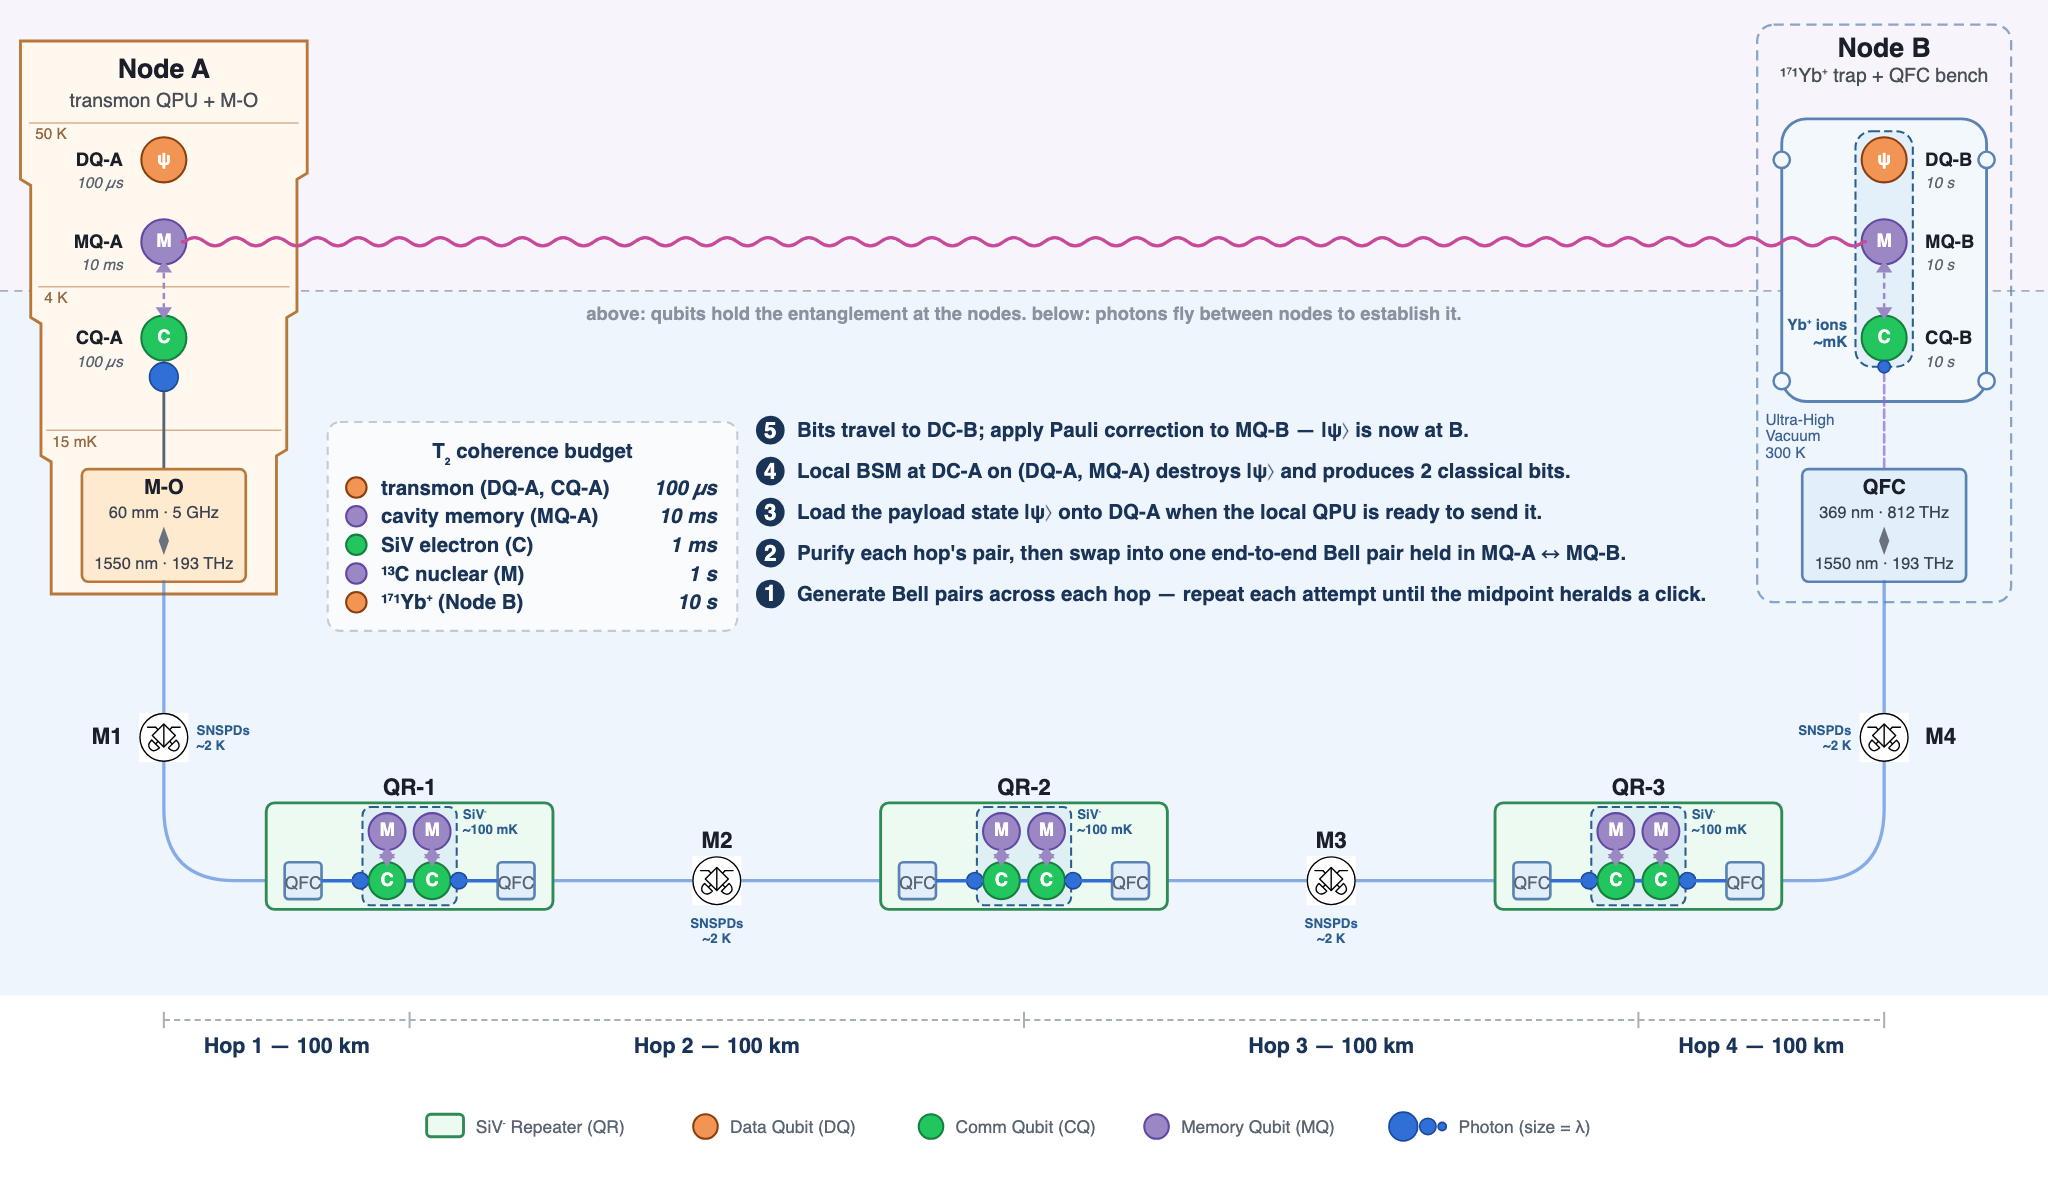
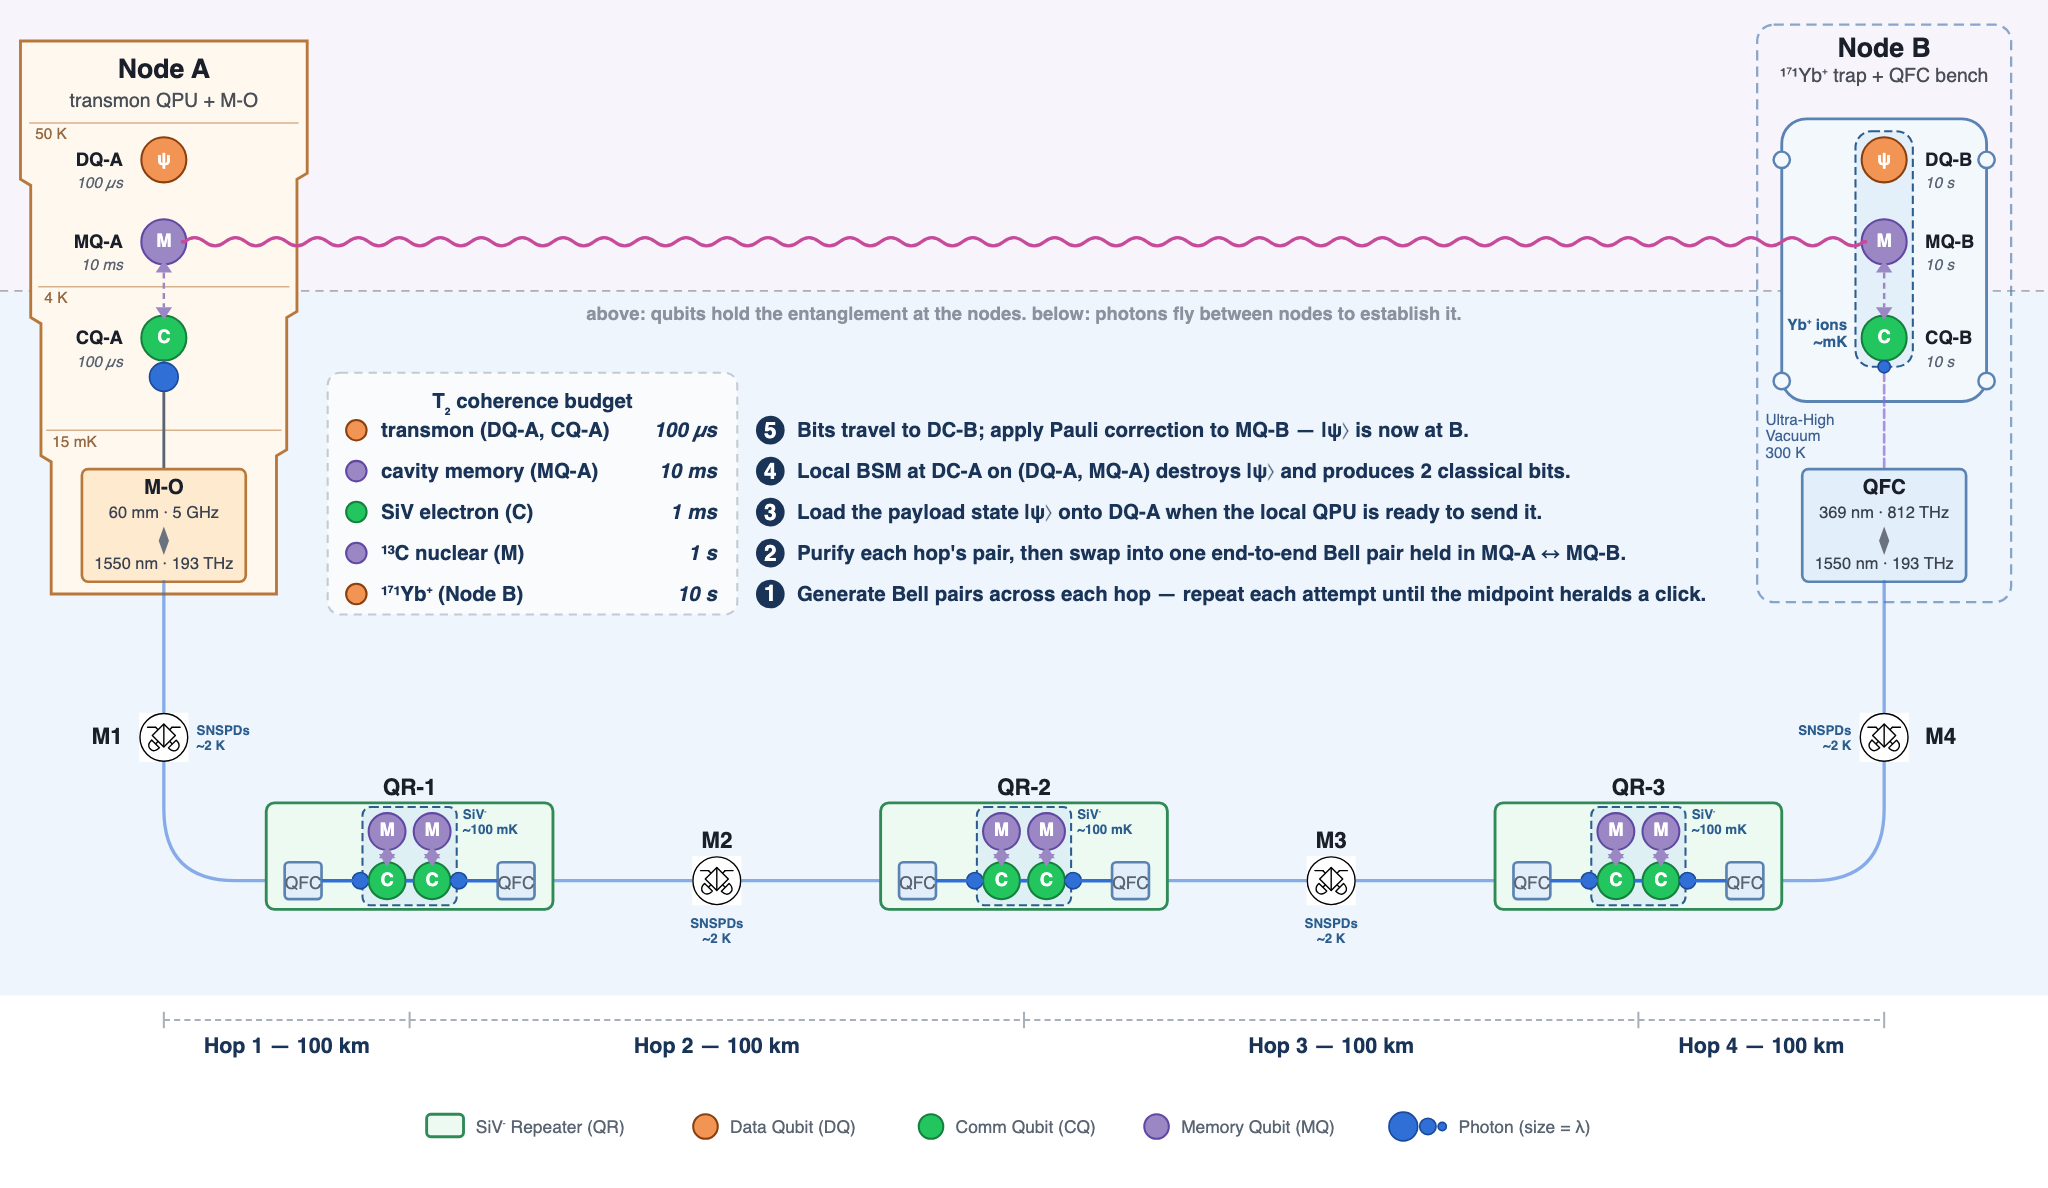
4hop-topology: lock T₂ panel row stride to step block so rows align
Panel rows used a 14 px stride while the step block used 20 px,
which left the panel sliding visually below the steps. Match the
strides and reposition the panel so each row lands at the same y
as the corresponding step (row 1 = step 5 at y=210, row 5 = step 1
at y=290). The panel reads as a paired sidebar to the steps.

- py 206 → 182, ph 102 → 118 (taller to accommodate the wider 20 px
  row stride for 5 rows).
- row stride dy 14 → 20.

Changed region(s): [[0.1562, 0.3114, 0.375, 0.5295], [0.3125, 0.4983, 0.375, 0.5295]]

diff --git a/scripts/diagrams/topology_4hop.py b/scripts/diagrams/topology_4hop.py
@@ -603,11 +603,10 @@ def _lifetime_panel(cv: Canvas) -> None:
     typical operating numbers that fit a procurement-grade conversation."""
     # Start past Node A's chandelier outline (which extends to ~x=150)
     # with a small breathing margin so the panel doesn't impinge on it.
-    # Width is sized for the post-prefix-drop content (bare values, no
-    # 'T₂ ≈' prefix on each row). Height fits 5 rows: the per-platform
-    # split at Node A (bare transmon vs cavity-coupled memory) is what
-    # makes the M-vs-C role distinction non-trivial there.
-    px, py, pw, ph = 160, 206, 200, 102
+    # py is chosen so the row stride (20 px, matching the step block's
+    # row_gap) places each panel row at exactly the same y as the
+    # corresponding step in the 5-step block — the two read as a pair.
+    px, py, pw, ph = 160, 182, 200, 118
     cv.rect(
         px, py, pw, ph, rx=6,
         style="fill: #fafbfc; stroke: #c4cad3; stroke-width: 1; stroke-dasharray: 4 3",
@@ -626,7 +625,10 @@ def _lifetime_panel(cv: Canvas) -> None:
         ("memory", "¹³C nuclear (M)",       "1 s"),
         ("data",   "¹⁷¹Yb⁺ (Node B)",       "10 s"),
     ]
-    y0, dy = py + 32, 14
+    # Row stride matches the step block's row_gap (20) so panel rows
+    # land at the same y values as the steps. With py=182, y0=210
+    # equals the top step's y; subsequent rows land on step4, step3, …
+    y0, dy = py + 28, 20
     for i, (role, label, value) in enumerate(rows):
         y = y0 + i * dy
         # Dot centred on the text baseline (the text is drawn at y with
